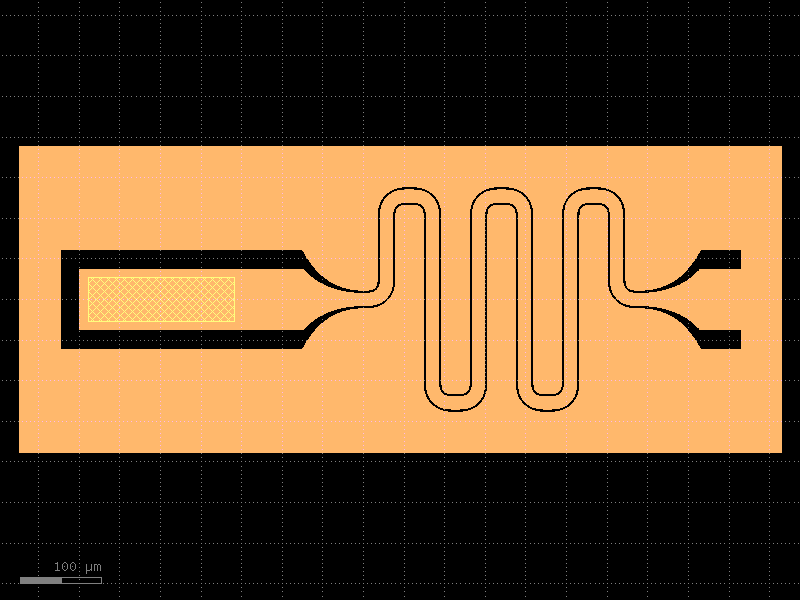
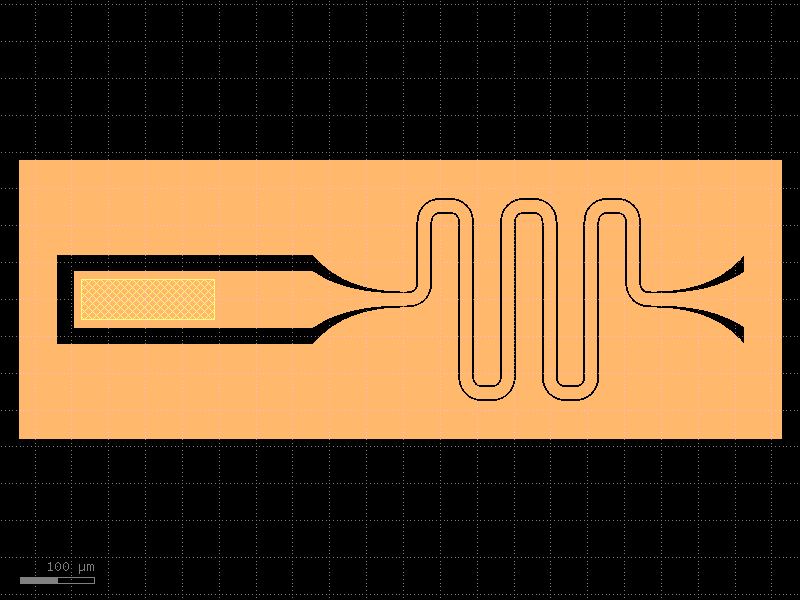
allow different transmission lines (with the same cross section) on either end of resonator, or optionally no transmission line. change plot images to throw an exception when plotting the device fails

diff --git a/src/qnngds/devices/resonator.py b/src/qnngds/devices/resonator.py
@@ -122,7 +122,7 @@ def microstrip(
 @gf.cell
 def transmission_line(
     cross_section: CrossSectionSpec,
-    length: float = 50,
+    length: float = 100,
 ) -> gf.Component:
     """Construct a straight transmission line by extruding a cross section
 
@@ -255,7 +255,10 @@ def pad(
 
 @gf.cell
 def transmission_line_resonator(
-    transmission_line_spec: ComponentSpec = transmission_line,
+    transmission_line_specs: tuple[ComponentSpec | None, ComponentSpec | None] = (
+        transmission_line,
+        None,
+    ),
     resonator_spec: ComponentSpec = resonator_meandered,
     tl_cross_section: CrossSectionSpec = partial(cpw, width=75, gap=24),
     res_cross_section: CrossSectionSpec = cpw,
@@ -267,16 +270,18 @@ def transmission_line_resonator(
     Inverts final design based on layer choice and PDK Layer class's outline function
 
     Args:
-        transmission_line (ComponentSpec): Desired component spec for transmission line.
-            Must take a single argument ``cross_section``.
-        resonator (ComponentSpec): Desired component spec for embedded resonator.
+        transmission_line_specs (tuple[ComponentSpec | None, ComponentSpec | None]): Desired component spec for
+            transmission line on either end of resonator. If ComponentSpec, take a single argument
+            ``cross_section``. If None, no transmission line will be created (although the resonator will
+            taper out to the width of the ``tl_cross_section``.
+        resonator_spec (ComponentSpec): Desired component spec for embedded resonator.
             Must take a single argument ``cross_section``.
         tl_cross_section (CrossSectionSpec): CPW or microstrip cross section for transmission line.
         res_cross_section (CrossSectionSpec): CPW or microstrip cross section for resonator.
         taper (ComponentFactory): Callable which produces a Component, used to generate a filled taper
             between resonator and transmission line. Port widths must match. Should be solid (i.e. not outlined);
             will be automatically outlined for CPW.
-        pad (tuple[ComponentSpec | None, ComponentSpec | None]): Component spec or None for each pad.
+        pads (tuple[ComponentSpec | None, ComponentSpec | None]): Component spec or None for each pad.
             If ComponentSpec, must take a single argument ``width``. If None, no pad will be created
 
     Returns:
@@ -309,12 +314,12 @@ def transmission_line_resonator(
     >>>     layer="PHOTO1",
     >>> )
     >>> c = qg.devices.resonator.transmission_line_resonator(
-    >>>     transmission_line=tl_spec,
-    >>>     resonator=res_spec,
+    >>>     transmission_line_specs=tl_spec,
+    >>>     resonator_spec=res_spec,
     >>>     tl_cross_section=tl_xc_spec,
     >>>     res_cross_section=res_xc_spec,
     >>>     taper=qg.geometries.hyper_taper,
-    >>>     pad=qg.devices.resonator.pad,
+    >>>     pads=qg.devices.resonator.pad,
     >>> )
 
     """
@@ -349,7 +354,7 @@ def transmission_line_resonator(
     R.add_ports(res.ports)
     # create new cross-section for taper using transitions
     T = gf.Component()
-    trans_length = tl_xc.sections[0].width
+    trans_length = sum(section.width for section in tl_xc.sections)
     trans_layer = res_xc.sections[0].layer
     transition = taper(
         start_width=res_xc.sections[0].width,
@@ -375,27 +380,35 @@ def transmission_line_resonator(
     else:
         T << transition
     T.add_ports(transition.ports)
-    R_ext = gf.components.extend_ports(
+    # add tapers
+    R = gf.components.extend_ports(
         component=R,
         port_names=["e1", "e2"],
         extension=T,
     )
-    R_ext_tl = gf.components.extend_ports(
-        component=R_ext,
-        port_names=["e1", "e2"],
-        extension=transmission_line_spec(tl_xc),
-    )
+    for n, tl_spec in enumerate(transmission_line_specs):
+        if tl_spec is None:
+            continue
+        # attach tl to component
+        R = gf.components.extend_ports(
+            component=R,
+            port_names=[f"e{n + 1}"],
+            extension=tl_spec(tl_xc),
+        )
     for n, pad in enumerate(pads):
         if pad is None:
             continue
+        # create the pad
         pad_i = pad(tl_xc.sections[0].width)
         if is_cpw:
+            # outline the pad
             pad_i = qg.utilities.outline(
                 component=pad_i,
                 outline_layers={str(tl_xc.sections[1].layer): tl_xc.sections[1].width},
             )
-        R_ext_tl = gf.components.extend_ports(
-            component=R_ext_tl, port_names=[f"e{n + 1}"], extension=pad_i
+        # attach pad to component
+        R = gf.components.extend_ports(
+            component=R, port_names=[f"e{n + 1}"], extension=pad_i
         )
     # invert if needed
     outline_layers = qg.utilities.get_outline_layers(gf.get_active_pdk().layers)
@@ -405,7 +418,7 @@ def transmission_line_resonator(
     ext_bbox_layers |= {
         str(layer): 50 for layer in layers if is_cpw and layer not in outline_layers
     }
-    inverted = qg.utilities.invert(R_ext_tl, ext_bbox_layers=ext_bbox_layers)
+    inverted = qg.utilities.invert(R, ext_bbox_layers=ext_bbox_layers)
     R = gf.Component()
     R << inverted
     R.add_ports(inverted.ports)

diff --git a/docs/user/plot_images.py b/docs/user/plot_images.py
@@ -1,7 +1,6 @@
 """Generate images for callable methods"""
 
 import os
-import traceback
 import importlib.util
 import gdsfactory as gf
 import matplotlib.pyplot as plt
@@ -60,7 +59,7 @@ def plot_and_save_functions():
                     f"not be plotted: {e}"
                 )
             else:
-                print(traceback.format_exc())
+                raise Exception(f"failed to plot cell {short_name}") from e
 
 
 def get_modules(folder_path, module_prefix=""):
